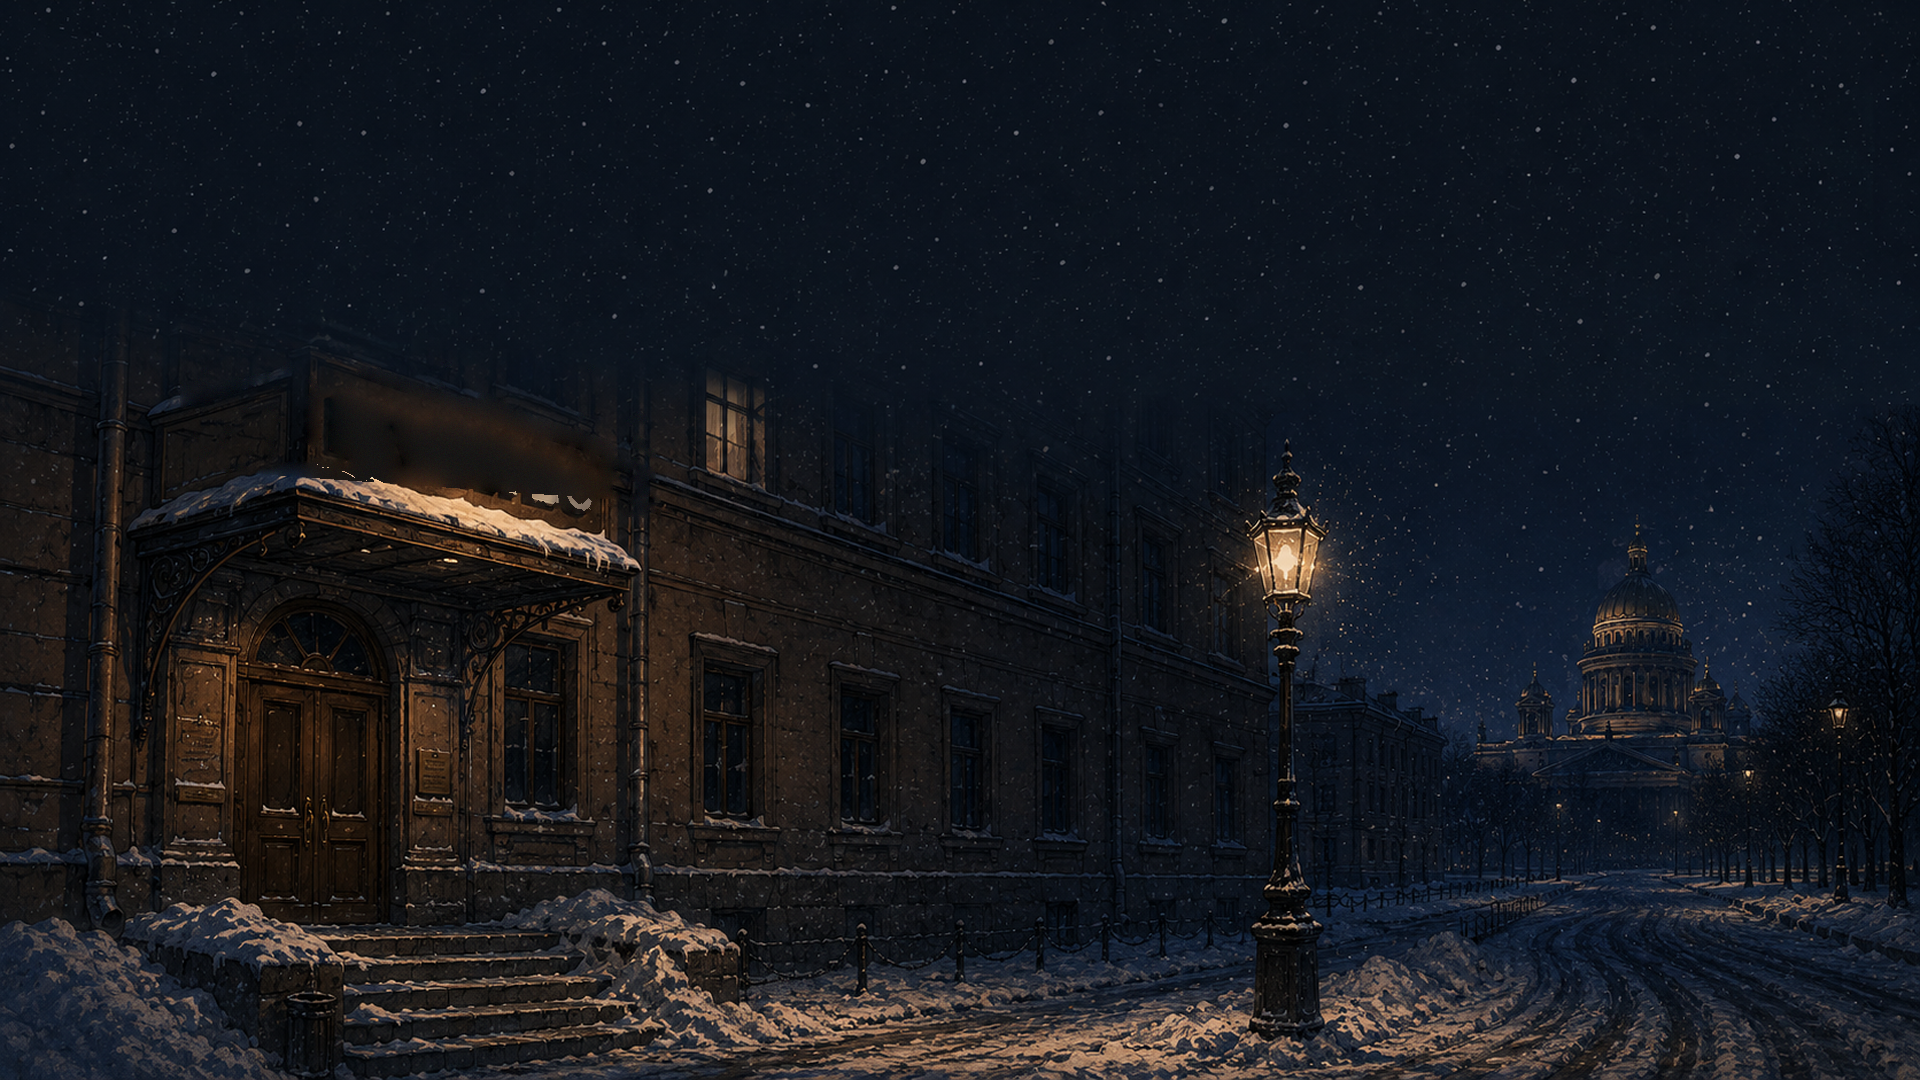
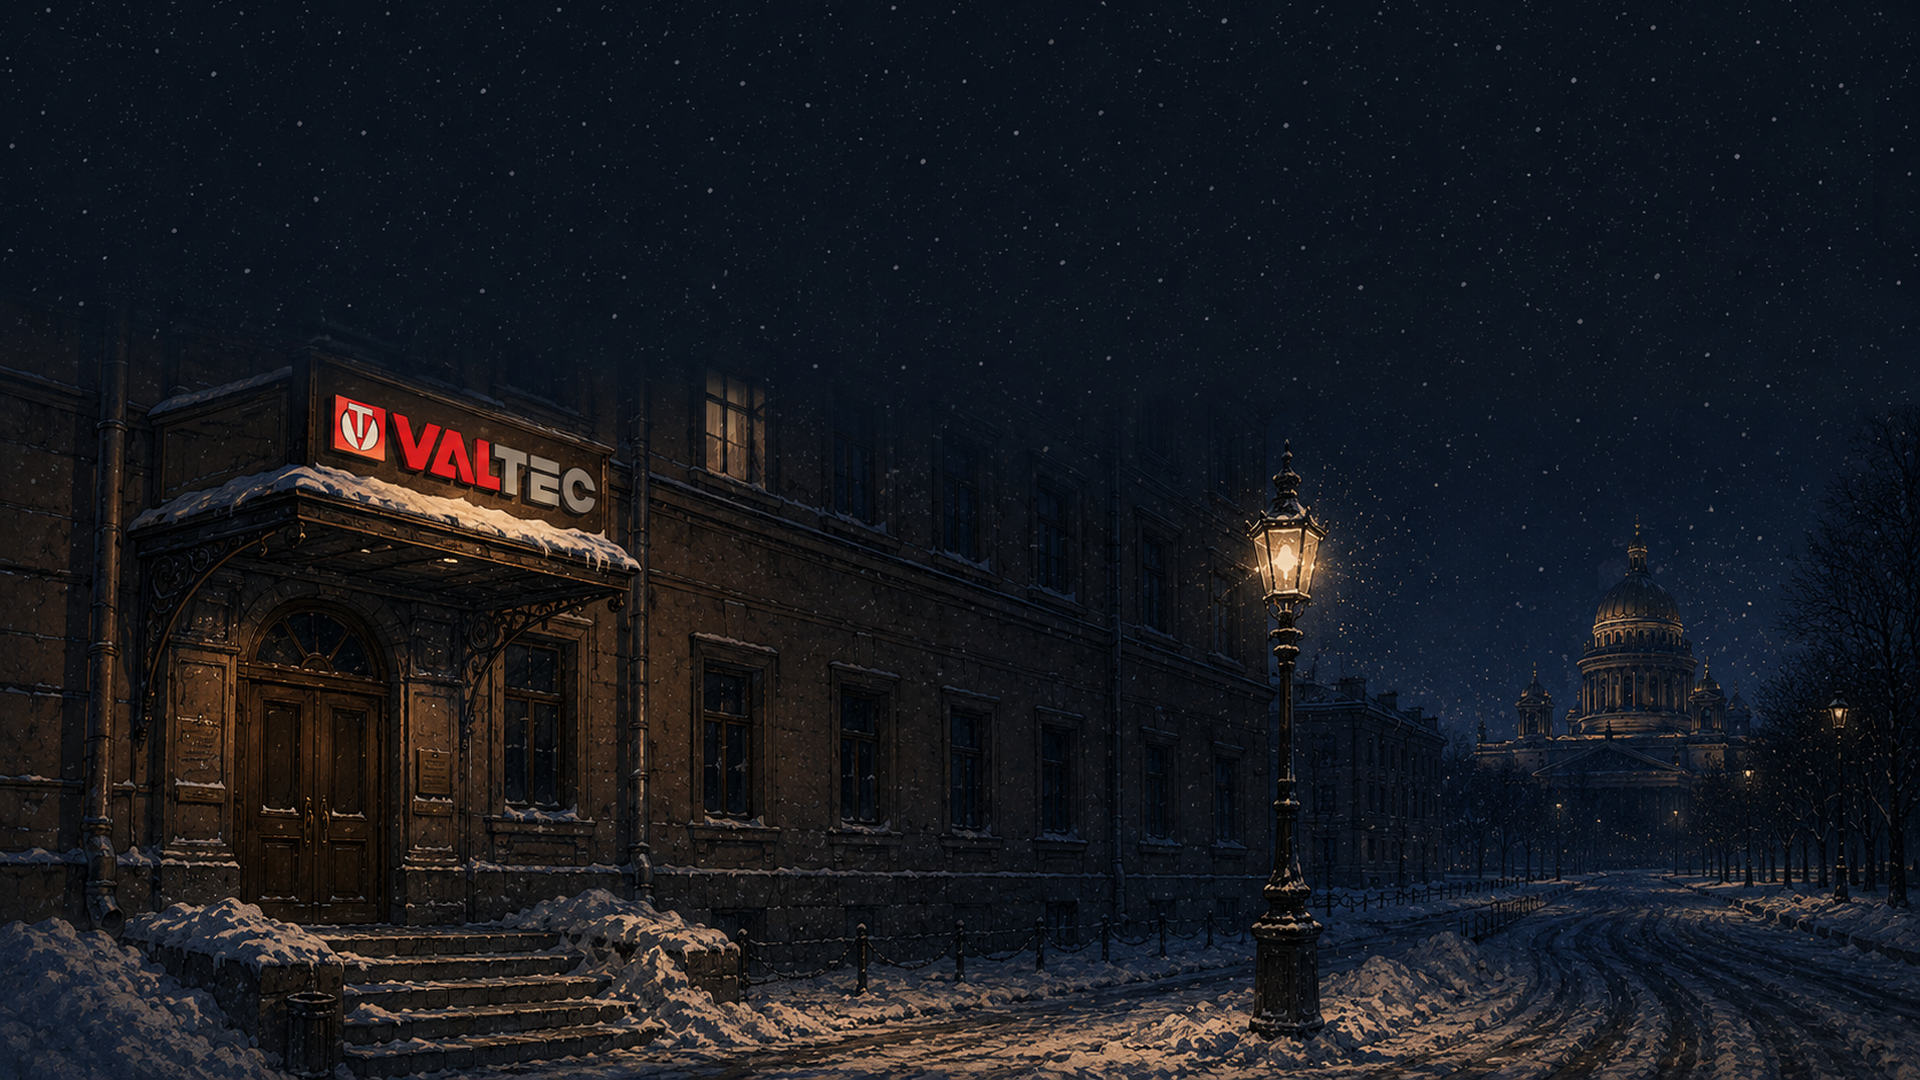
Титул 2.0.1 финал: вывеска ВАЛТЕК возвращена (решение автора), 18+ убран с титула; конвейер+wine PASS, SHA-256 финальные

Changed region(s): [[0.1562, 0.3667, 0.3438, 0.4889], [0.0938, 0.3361, 0.125, 0.3667]]

diff --git a/MIGRATION.md b/MIGRATION.md
@@ -80,7 +80,7 @@ SHA-256). **Portable-only: никаких инсталляторов.**
    После генерации: заменить `assets/gfx/ui/logo_title.png`, вернуть в
    `src/ui.lua` отрисовку картинки вместо `draw_title_logo()` (блок
    помечен комментарием «движковая замена бракованного logo_title»).
-2. **[ЗАКРЫТО в 2.0.1] bg_title.png — лор-абсурд.** На фоне титула светится офисное окно
+2. **[ЗАКРЫТО в 2.0.1, с отступлением] bg_title.png — лор-абсурд.** Вывеска «VALTEC» оставлена по решению автора (см. BUILDLOG Фаза 6.1). На фоне титула светится офисное окно
    на уровне первого этажа, тогда как офис — на 5-м (виды из окон комнат
    противоречат). Перегенерировать фон, промпт:
    > «Ночной зимний Санкт-Петербург, вход в старое административное

diff --git a/docs/BUILDLOG.md b/docs/BUILDLOG.md
@@ -115,3 +115,11 @@
 - Пересборка до публикации: бейдж «2.0» убран с титула (титул —
   только арт-лого); конвейер и wine-гаунтлет прогнаны заново, PASS.
 - Размер ZIP: 66M. Portable-only, инсталлятора нет.
+- Финальная правка титула по решению автора: вывеска «VALTEC» из
+  поставленного арта ВОЗВРАЩЕНА как есть (осознанное отступление от
+  MIGRATION §5.2 «пустая рама»); дисклеймер «18+» убран с титульного
+  экрана (маркировка осталась в README). Конвейер §3 и wine-гаунтлет
+  прогнаны заново — все гейты PASS.
+- SHA-256 (финальные):
+  654d7d253205ac270b4ced8688ab655a8bb135c8a5235f764dfd9c3ec513379c  dist/BrassJanissary-2.0.1-win64-portable.zip
+  b86d36bf54a9d859d116141afec4a1495939de028e7750b0d463854b65bcceee  BrassJanissary2.exe (2.0.1)
